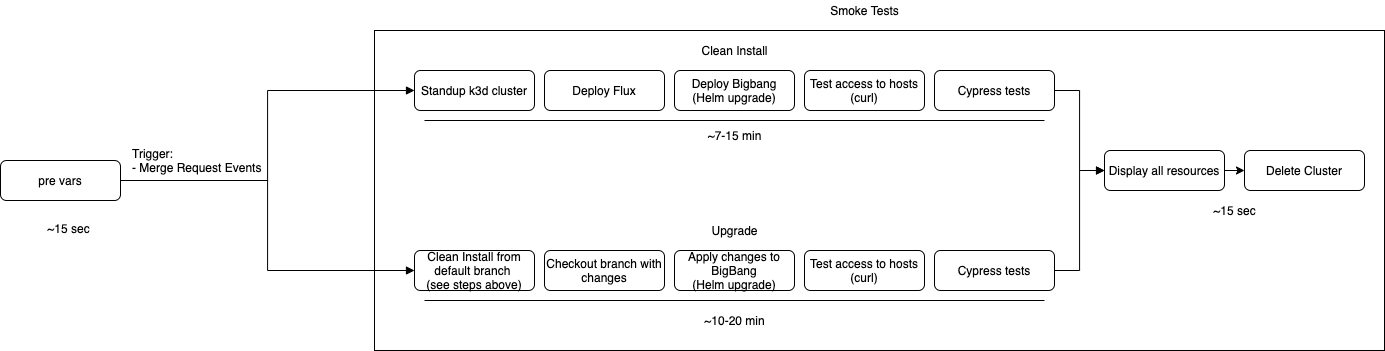
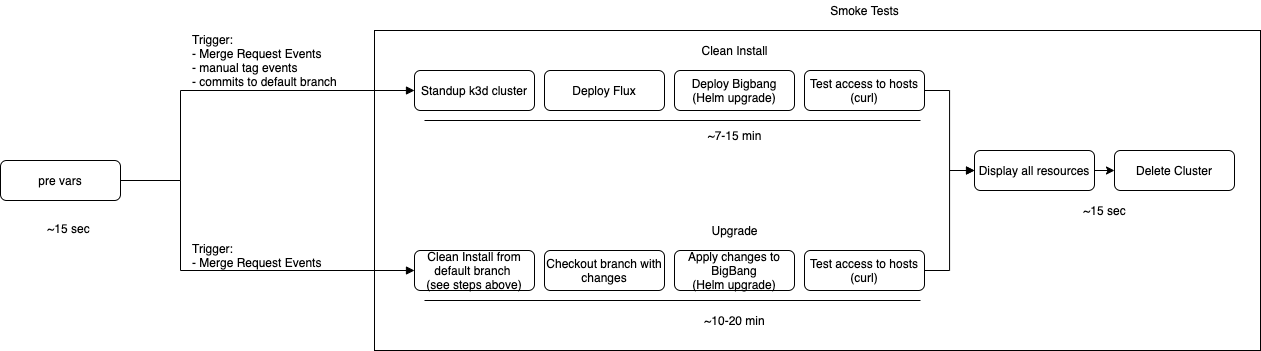
update diagram/text about trigger and upgrade step

diff --git a/docs/developer/ci-workflow.md b/docs/developer/ci-workflow.md
@@ -6,6 +6,7 @@ The following is meant to serve as an overview of the pipeline stages required t
 
 This pipeline to triggered by following for individual bigbang packages: 
 - merge request events
+  -  Note: Currently upgrade step only runs during MR events
 - manual tag events
 - commits to default branch
 
@@ -30,6 +31,12 @@ This stage verifies several easy to check assumptions such as:
 If required, the upgrade step can skipped when MR title starts with 'SKIP UPGRADE'
 
 ### BigBang Pipeline Stages
+
+This pipeline to triggered by following for individual bigbang packages: 
+- merge request events
+  -  Note: Currently upgrade step only runs during MR events
+- manual tag events
+- commits to default branch
 
 The pipeline is split into several stages:
 
